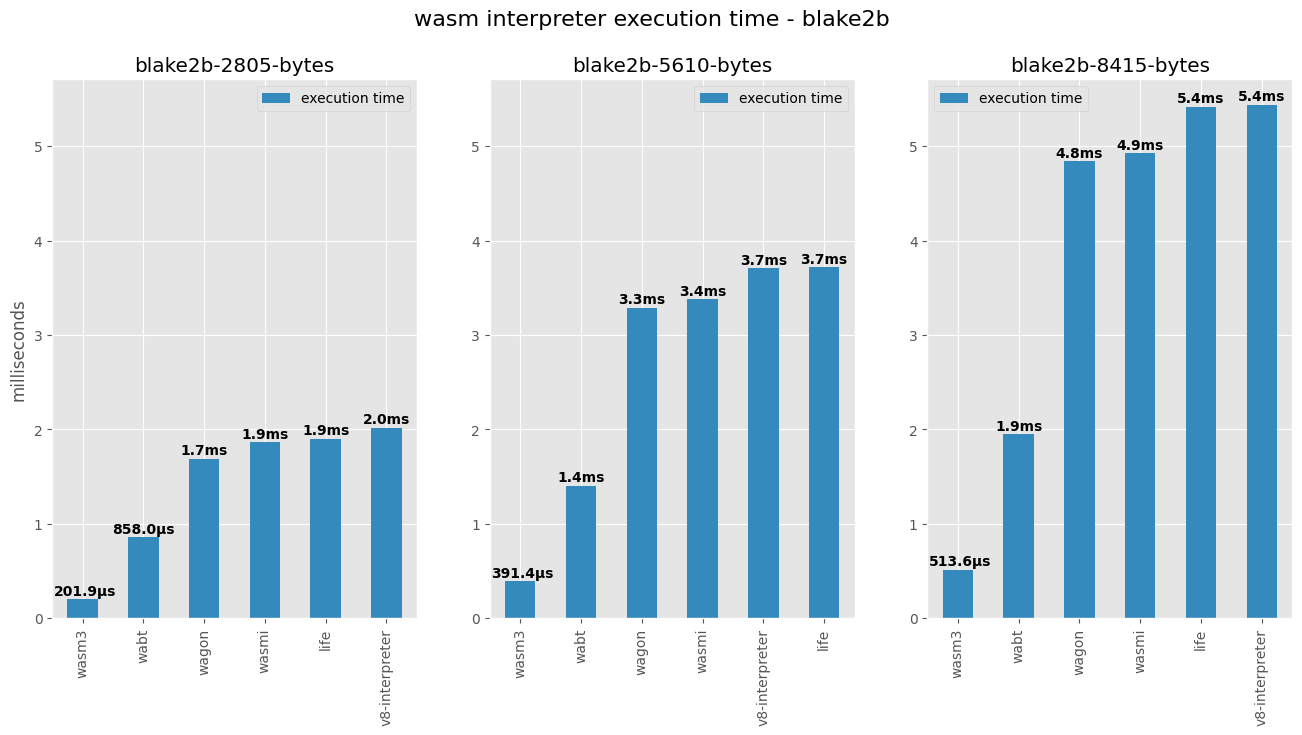
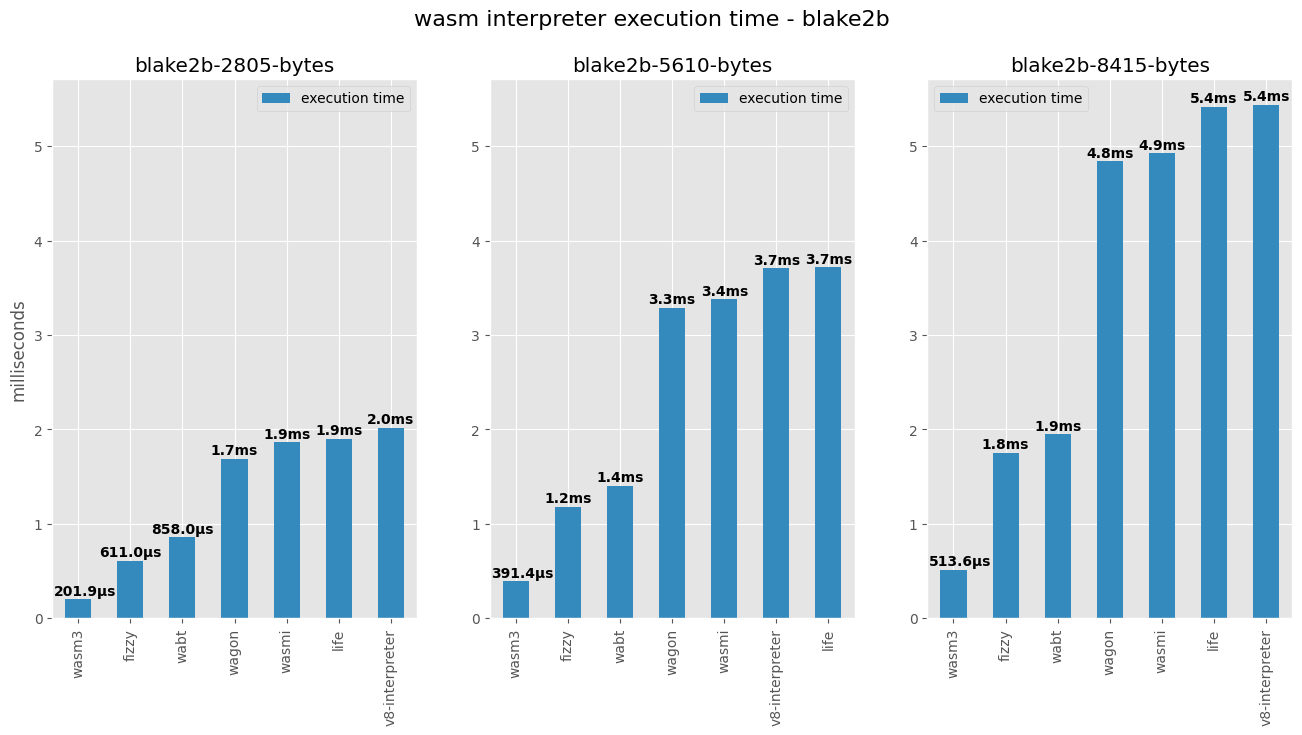
fix charts (add fizzy)

diff --git a/scripts/generate_report.py b/scripts/generate_report.py
@@ -28,7 +28,7 @@ SCOUT_RESULT_FILE = "scout_bignum_benchmarks.csv"
 IMG_OUTPUT_DIR = "../charts/"
 
 # To add a new engine, add the engine name used in the csv file to the list
-INTERPRETER_ENGINES = ['life', 'wagon', 'wasmi', 'wabt', 'v8-interpreter', 'wasm3', 'wamr']
+INTERPRETER_ENGINES = ['life', 'wagon', 'wasmi', 'wabt', 'v8-interpreter', 'wasm3', 'wamr', 'fizzy']
 COMPILER_ENGINES = ['lifePolymerase', 'wasmtime', 'wavm', 'v8-liftoff', 'v8-turbofan', 'asmble']
 
 wasm_vm_names = INTERPRETER_ENGINES + COMPILER_ENGINES
@@ -518,6 +518,10 @@ plotThreeTestsExecTime(df_interp,
                        bn128_mul_test_names,
                        title="wasm interpreter execution time - bn128_mul")
 
+plotThreeTestsExecTime(df_interp,
+                       bn128_pairing_test_names,
+                       title="wasm interpreter execution time - bn128_pairing")
+
 ####################
 # Compiler Results #
 ####################
@@ -556,7 +560,7 @@ def plotCompilerStackedOneTest(df_benchdata, test_name, native=False):
     adjust_text_labels(labelBarHeights(ax, lower_y_bound=False))
     ax.legend(labels=["execution time", "compile time"])
     print(f"plotCompilerStackedOneTest: {filename}.png")
-    plt.savefig(IMG_OUTPUT_DIR + filename + '.png', bbox_inches='tight')
+    plt.savefig(IMG_OUTPUT_DIR + 'wasm-compilers-' + filename + '.png', bbox_inches='tight')
 
 plotCompilerStackedOneTest(df_compiler, blake2b_test_names[2])
 plotCompilerStackedOneTest(df_compiler, "bls12-381-aggreg-128-pubkeys-verify-sig")
@@ -609,6 +613,12 @@ def add_engine_ratio_col(df_two_engines, interp_engine, compiler_engine):
 
 df_wabt_v8liftoff = add_engine_ratio_col(df_interp_and_compile, "wabt", "v8-liftoff")
 
+df_fizzy_v8liftoff = add_engine_ratio_col(df_interp_and_compile, "fizzy", "v8-liftoff")
+
+df_wasm3_v8liftoff = add_engine_ratio_col(df_interp_and_compile, "wasm3", "v8-liftoff")
+
+df_wasmi_wavm = add_engine_ratio_col(df_interp_and_compile, "wasmi", "wavm")
+
 def plotCompilerSpeedup(df_compiler_speedup, interp_name="interp", compiler_name="compiler"):
     filename = 'compiler-speedup-' + interp_name + '-' + compiler_name
     df_is = df_compiler_speedup.copy()
@@ -642,7 +652,11 @@ def plotCompilerSpeedup(df_compiler_speedup, interp_name="interp", compiler_name
     print(f"plotCompilerSpeedup: {filename}.png")
     plt.savefig(IMG_OUTPUT_DIR + filename + '.png', bbox_inches='tight')
 
+# import pdb; pdb.set_trace()
 plotCompilerSpeedup(df_wabt_v8liftoff, interp_name="wabt", compiler_name="v8-liftoff")
+plotCompilerSpeedup(df_fizzy_v8liftoff, interp_name="fizzy", compiler_name="v8-liftoff")
+plotCompilerSpeedup(df_wasm3_v8liftoff, interp_name="wasm3", compiler_name="v8-liftoff")
+plotCompilerSpeedup(df_wasmi_wavm, interp_name="wasmi", compiler_name="wavm")
 
 ########################################################
 # All precompiles compared (are interpreters feasible? #
